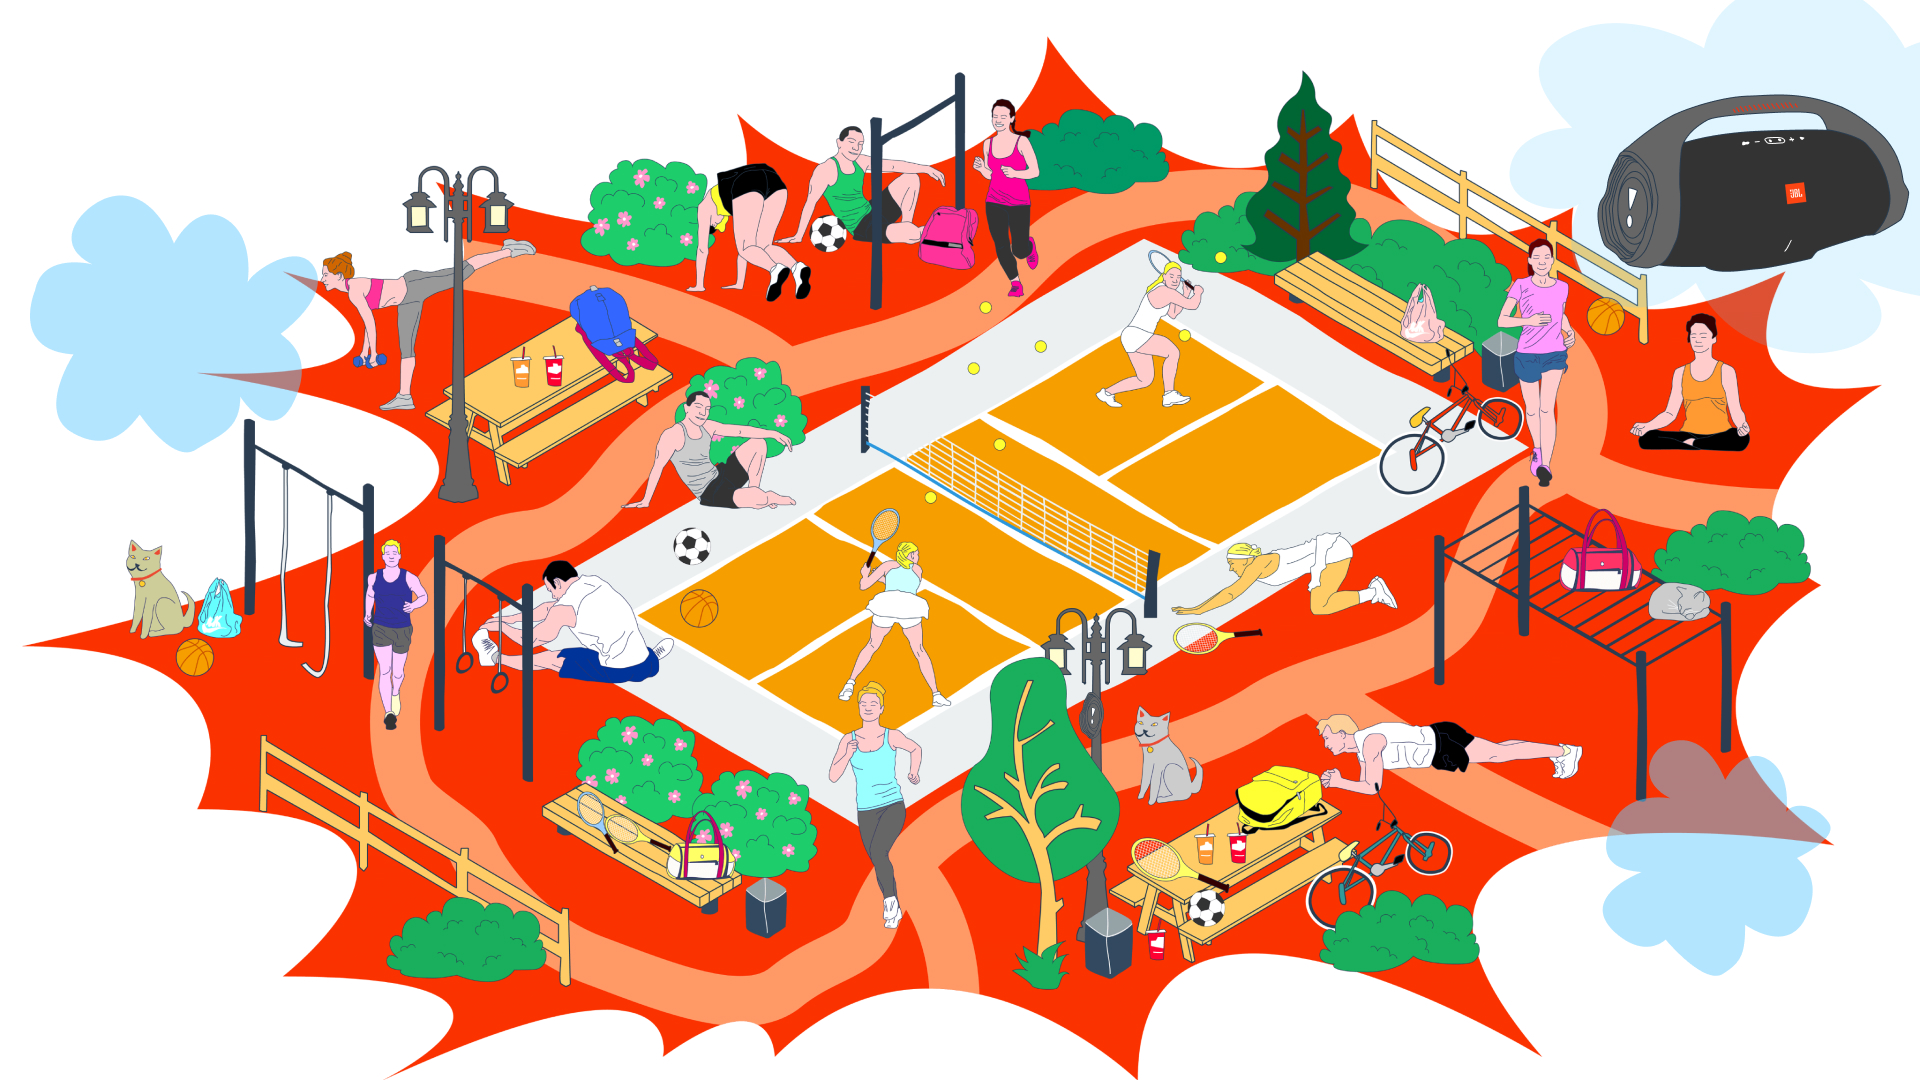
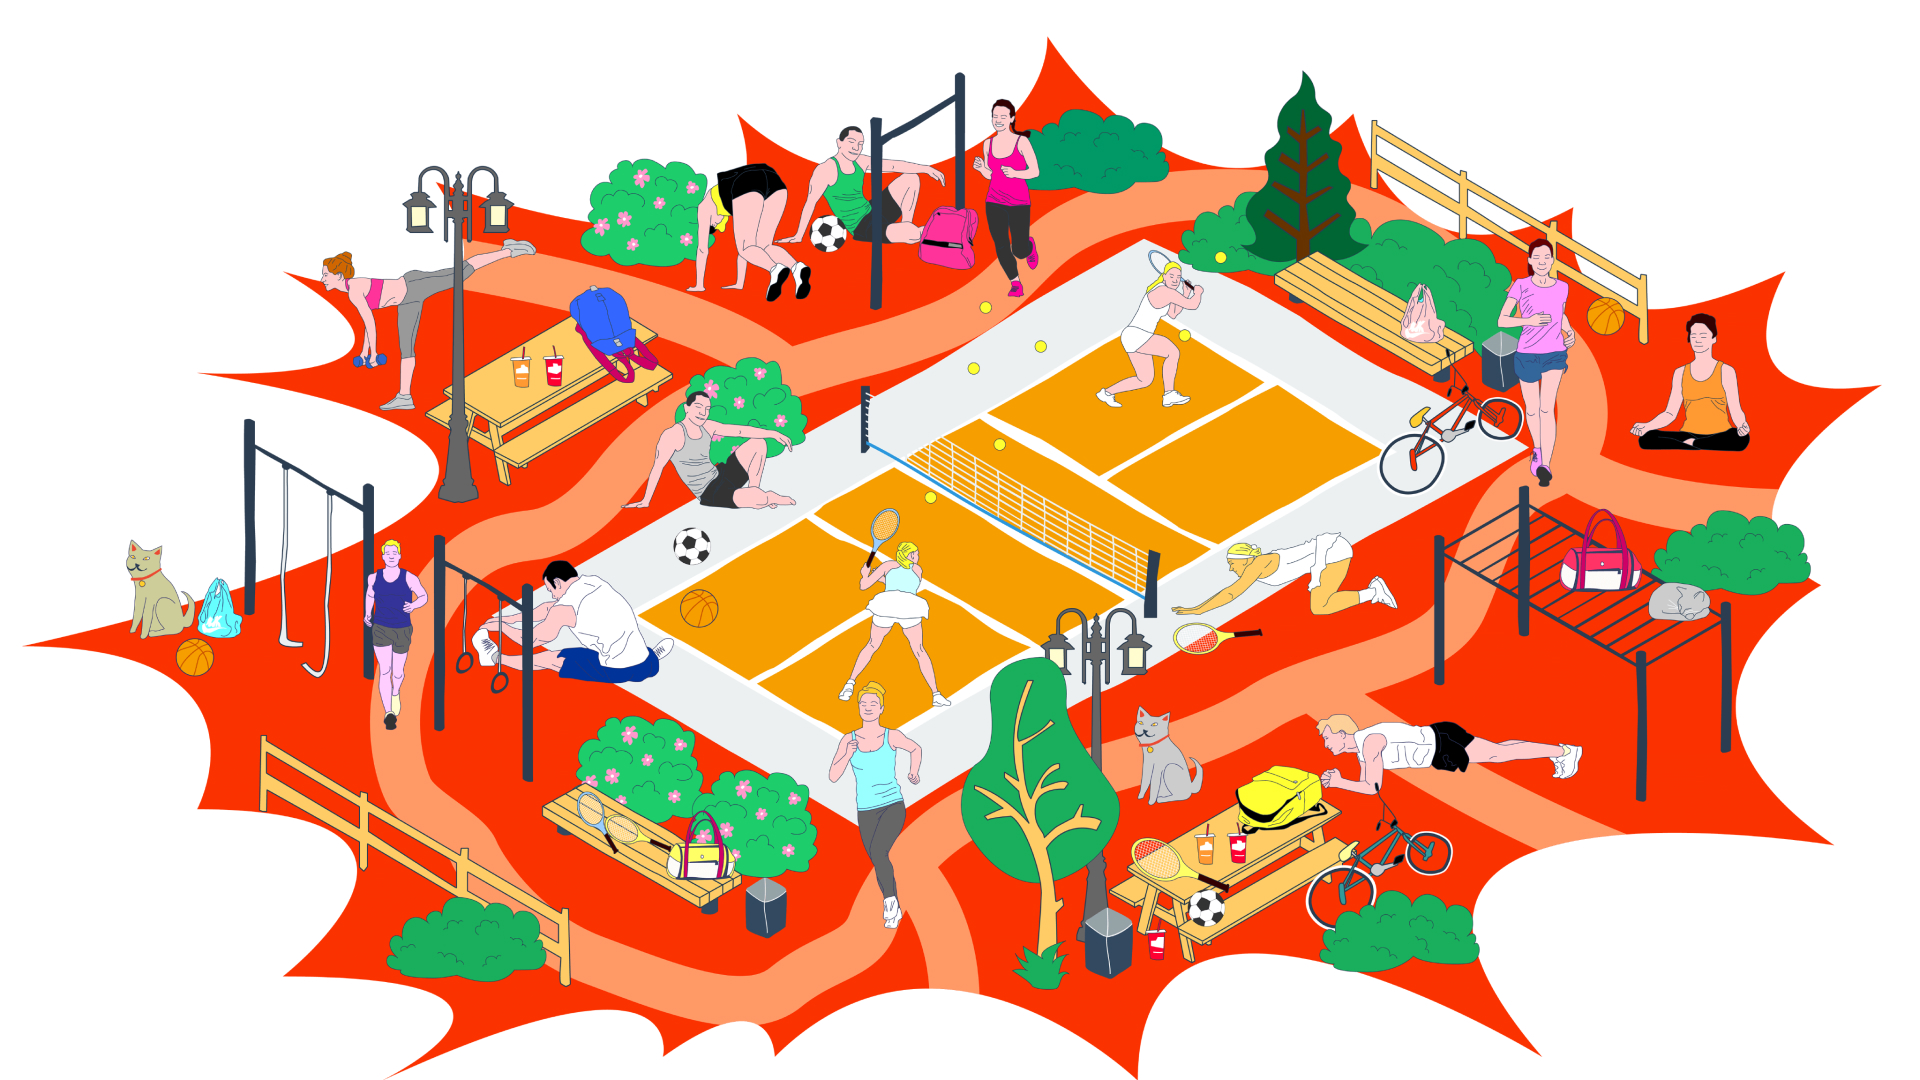
end react apps

diff --git a/src/App.js b/src/App.js
@@ -17,8 +17,14 @@ function App() {
   }
 
   const levels = [
-    'start',
-    'level-1'
+    {
+      name: 'start',
+      mess: {__html: ''}
+    },
+    {
+      name: 'level-1',
+      mess: {__html: '<div class="title"><span>Что способно вдохновлять на спортивные достижения так же, как музыка?</span></div><div class="desc"><span>Включаешь любимый трек — и вот ты уже наделен невероятной мотивацией на любые свершения! <strong>Найди</strong> на площадке для воркаута <strong>пассивные излучатели от JBL Boombox 2.</strong></span></div>'}
+    },
   ]
 
   const [rem, setRem] = useState(getRem)
@@ -30,7 +36,7 @@ function App() {
   })
 
   let classApp = ['App']
-  classApp.push(levels[level])
+  classApp.push(levels[level].name)
 
   const changeLevel = () => {
     let newLevel = level + 1;
@@ -41,7 +47,6 @@ function App() {
   }
 
   const hideOverloy = () => {
-    console.log(1)
     setOverloy(false);
   }
 
@@ -58,7 +63,7 @@ function App() {
       changeLevel, hideOverloy
     }}>
     <div className={classApp.join(' ')} style={{fontSize: rem + 'px'}}>
-      <Canvas rem={rem} mobile={mobile}/>
+      <Canvas rem={rem} mobile={mobile} text={levels[level].mess}/>
     </div>
     </Context.Provider>
   );

diff --git a/src/Components/Overloy/Overloy.css b/src/Components/Overloy/Overloy.css
@@ -36,3 +36,67 @@
     transform: translate(-50%, -50%);
     display: none;
 }
+
+.overloy-message-wrap {
+    padding: 11.7em 17em 4em;
+}
+
+.overloy-message-wrap .title{
+    font-weight: 600;
+    line-height: 3.3em;
+    margin: 0 0 2.5em;
+    font-family: 'Avant';
+}
+
+.overloy-message-wrap .title span {
+    font-size: 2.2em;
+}
+
+.overloy-message-wrap .desc {
+    line-height: 3.1em;
+    color: #808284;
+}
+
+.overloy-message-wrap .desc span {
+    font-size: 1.6em;
+}
+
+.overloy-message-wrap .desc span strong {
+    color: #FF2A07;
+}
+
+@media (max-width: 800px) {
+    .overloy-message {
+        width: 111.7em;
+        height: 75.2em;
+    }
+    .overloy-message-wrap {
+        font-size: 5px;
+        padding: 0 12em 0;
+        height: 100%;
+        display: flex;
+        align-items: center;
+    }
+
+    .overloy-message-wrap .title{
+        font-weight: 400;
+        line-height: 3.1em;
+        margin: 0;
+        font-family: 'Arial';
+        display: inline;
+    }
+
+    .overloy-message-wrap .desc {
+        line-height: 3.1em;
+        color: #000;
+        display: inline;
+    }
+
+    .overloy-message-wrap .title span {
+        font-size: 1.9em;
+    }
+
+    .overloy-message-wrap .desc span {
+        font-size: 1.9em;
+    }
+}

diff --git a/src/Components/Overloy/Overloy.js b/src/Components/Overloy/Overloy.js
@@ -3,12 +3,16 @@ import { Context } from '../../context';
 
 import './Overloy.css'
 
-function Overloy() {
+function Overloy({text}) {
     const { hideOverloy } = useContext(Context);
 
     return (
         <div className="Overloy" onClick={() => hideOverloy()}>
-            <div className="overloy-message"></div>
+            <div className="overloy-message">
+                <div className="overloy-message-wrap">
+                    <div dangerouslySetInnerHTML={text}></div>
+                </div>
+            </div>
         </div>
     )
 }

diff --git a/src/Components/Canvas/Canvas.js b/src/Components/Canvas/Canvas.js
@@ -7,12 +7,12 @@ import StartPage from '../StartPage/StartPage'
 
 import './Canvas.css'
 
-function Canvas({rem, mobile}) {
+function Canvas({rem, mobile, text}) {
     return (
         <div className="Canvas">
             <StartPage rem={rem} mobile={mobile}/>
             <MobileTurn />
-            <Overloy />
+            <Overloy text={text} />
             <Level1 />
         </div>
     )

diff --git a/src/Components/Level1/Level1.js b/src/Components/Level1/Level1.js
@@ -5,8 +5,10 @@ import './Level1.css'
 function Level1() {
     return (
         <div className="Level1">
-            <div className="app-container">
+            <div className="f-bg">
+                <div className="app-container">
 
+                </div>
             </div>
         </div>
     )

diff --git a/src/Components/Level1/Level1.css b/src/Components/Level1/Level1.css
@@ -2,3 +2,12 @@
     background: url(img/level-1-bg.jpg)no-repeat center;
     background-size: contain;
 }
+
+.f-bg {
+    background: url(img/ob.png)no-repeat;
+    background-size: contain;
+}
+
+.Level1 .app-container {
+    cursor: url('img/cursor.png'), pointer;
+}
